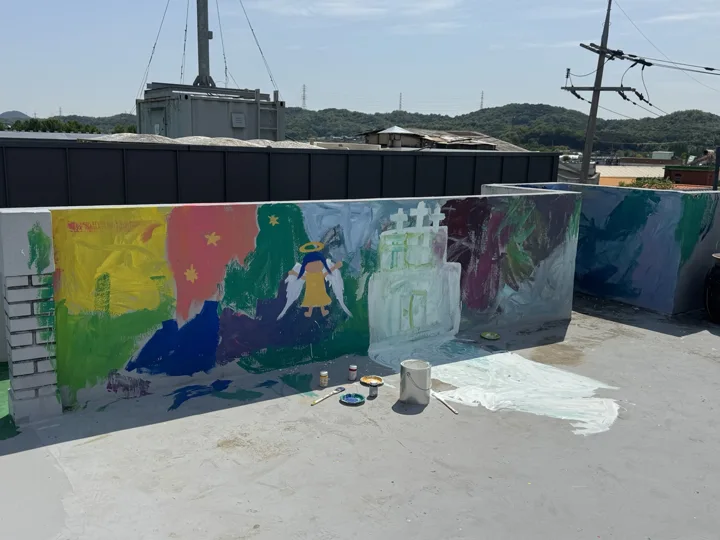
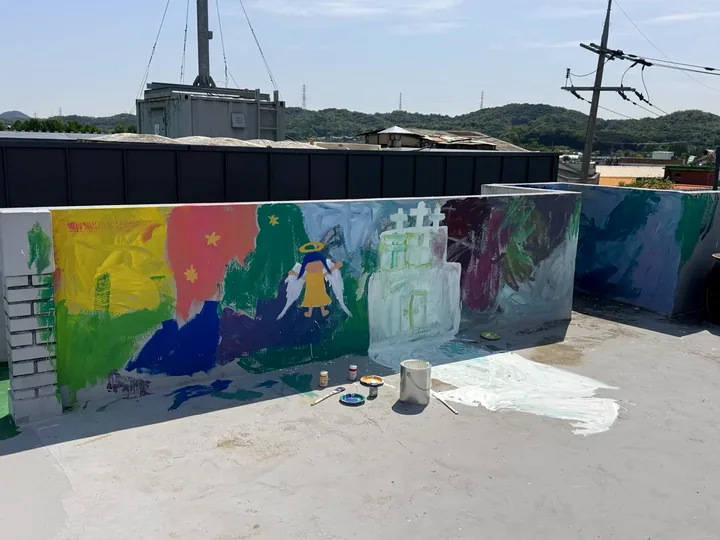
feat: 어린이 예배 페이지 문구를 담백하게 다듬고 이미지 색감 보정
- 은유·수식이 많던 제목·소개·단락·사진 설명을 간결한 문장으로 수정 (기존에 있던 사실만 사용)
- 홈·예배 안내의 어린이 예배 카드 요약과 meta/og 설명을 같은 문장으로 맞춤
- 그림 1장·사진 4장의 푸른 기를 줄이고 대비·채도를 소폭 조정 (파일명·크기·마크업 동일)
- 위키(ministries, site)에 변경 기록 추가

Claude-Session: https://claude.ai/code/session_01VZbFsqcJ5fzYUPDYFFQhgg

Changed region(s): [[0.8556, 0.3259, 0.8861, 0.3556]]

diff --git a/data.js b/data.js
@@ -114,58 +114,58 @@ const CHURCH_DATA = {
     childrenWorship: {
         "eyebrow": "광명교회 어린이 예배",
         "title": [
-            "어린이의 목소리로",
-            "교회가 자랍니다."
+            "아이들과 함께 드리는",
+            "주일 예배입니다."
         ],
-        "intro": "광명교회 어린이 예배는 아이들의 질문과 저마다의 목소리를 환영합니다. 함께 놀고 고민하고 기도하며 하느님의 사랑을 배웁니다.",
+        "intro": "광명교회 어린이 예배는 아이들이 궁금한 것을 편하게 묻는 자리입니다. 선생님들과 함께 찬양하고, 놀고, 기도하며 하느님의 사랑을 배웁니다.",
         "heroAlt": "팔을 벌린 예수님 곁에 모인 어린이들을 그린 그림",
-        "welcomeLabel": "함께 예배해요",
+        "welcomeLabel": "예배 안내",
         "visitLabel": "오시는 길",
-        "rhythmTitle": "아이들의 눈높이에서, 함께",
+        "rhythmTitle": "예배에서 하는 일",
         "rhythm": [
             {
-                "title": "말씀을 만나요",
-                "desc": "주일학교 선생님들과 그 주일의 성서 말씀을 만나고, 찬양과 활동으로 이야기를 나눕니다."
+                "title": "말씀 듣기",
+                "desc": "주일학교 선생님들과 그 주일의 성서 말씀을 읽고, 찬양과 활동으로 이야기를 나눕니다."
             },
             {
-                "title": "저마다의 목소리로",
-                "desc": "궁금한 것을 묻고 서로의 이야기를 듣습니다. 함께 놀고 고민하는 시간도 배움이 됩니다."
+                "title": "묻고 이야기하기",
+                "desc": "궁금한 것은 자유롭게 묻고, 서로의 이야기를 듣습니다. 함께 놀고 이야기 나누는 시간도 있습니다."
             },
             {
-                "title": "한 공동체로",
-                "desc": "영성체 시간에는 어른들과 함께합니다. 어린이도 교회의 예배를 함께 이루는 한 사람입니다."
+                "title": "영성체",
+                "desc": "영성체 시간에는 어른들과 함께 성체를 모십니다. 세례받은 어린이는 모두 성체를 받을 수 있습니다."
             }
         ],
-        "storyEyebrow": "우리의 시간",
-        "storyTitle": "작은 손들이 그린, 우리의 교회",
-        "storyIntro": "붓을 들고 색을 고르며 벽에 그림을 남겼습니다. 서로 다른 색이 만나 하나의 그림이 되듯, 아이들의 목소리가 모여 교회의 이야기가 됩니다.",
+        "storyEyebrow": "활동 모습",
+        "storyTitle": "아이들이 벽에 그린 그림",
+        "storyIntro": "아이들이 직접 색을 골라 붓으로 벽에 그림을 그렸습니다.",
         "photos": [
             {
                 "src": "painting-joy",
                 "alt": "붓을 들고 벽화 앞에서 두 팔을 펼친 어린이",
-                "caption": "마음껏 표현하는 기쁨"
+                "caption": "붓을 들고 웃는 아이"
             },
             {
                 "src": "painting-together",
                 "alt": "여러 색으로 칠한 벽에 붓질하는 어린이",
-                "caption": "내가 고른 색으로, 나의 자리에서"
+                "caption": "벽에 색을 칠하는 아이"
             },
             {
                 "src": "mural-church",
                 "alt": "푸른 하늘과 초록 들판 위에 그린 작은 교회 벽화",
-                "caption": "아이들의 눈에 비친 교회"
+                "caption": "하늘과 들판 위의 교회 그림"
             },
             {
                 "src": "mural-angel",
                 "alt": "여러 색의 바탕 위에 천사와 교회를 그린 벽화",
-                "caption": "함께 남긴 우리의 이야기"
+                "caption": "천사와 교회를 그린 벽화"
             }
         ],
-        "joinTitle": "이번 주일, 함께 만나요",
+        "joinTitle": "예배 안내",
         "placeLabel": "장소",
         "place": "교육관",
         "timeLabel": "시간",
-        "joinIntro": "처음 오시는 가족도 환영합니다. 어린이 예배가 궁금하시다면 교회로 문의해 주세요.",
+        "joinIntro": "처음 오시는 가족도 환영합니다. 궁금한 점은 교회로 문의해 주세요.",
         "communionTitle": "영성체 안내",
         "contactLabel": "어린이 예배 문의",
         "backLabel": "전체 예배 안내"
@@ -526,7 +526,7 @@ const CHURCH_DATA = {
                 href: "children.html",
                 image: "images/children/welcome-sm.webp",
                 imageAlt: "어린이들을 맞이하는 예수님 그림",
-                summary: "아이들의 질문과 저마다의 목소리를 환영합니다. 함께 놀고 고민하고 기도하며 하느님의 사랑을 배웁니다.",
+                summary: "아이들이 궁금한 것을 편하게 묻고, 놀고, 기도하며 하느님의 사랑을 배웁니다.",
                 linkLabel: "어린이 예배 만나보기",
                 title: "어린이 예배",
                 time: "매주 일요일 오전 11:00",

diff --git a/children.html b/children.html
@@ -4,21 +4,21 @@
     <meta charset="UTF-8">
     <meta name="viewport" content="width=device-width, initial-scale=1.0, viewport-fit=cover">
     <title>어린이 예배 — 대한성공회 광명교회</title>
-    <meta name="description" content="어린이의 목소리로 교회가 자랍니다. 아이들의 질문과 저마다의 목소리를 환영하는 광명교회 어린이 예배.">
+    <meta name="description" content="아이들이 궁금한 것을 편하게 묻고, 찬양하고 놀며 기도하는 광명교회 어린이 예배 안내입니다.">
     <meta name="theme-color" content="#173a2e">
     <link rel="canonical" href="https://frpsy.github.io/gmchurch_web/children.html">
     <meta property="og:type" content="website">
     <meta property="og:site_name" content="대한성공회 광명교회">
     <meta property="og:locale" content="ko_KR">
     <meta property="og:title" content="어린이 예배 — 대한성공회 광명교회">
-    <meta property="og:description" content="어린이의 목소리로 교회가 자랍니다. 아이들의 질문과 저마다의 목소리를 환영하는 광명교회 어린이 예배.">
+    <meta property="og:description" content="아이들이 궁금한 것을 편하게 묻고, 찬양하고 놀며 기도하는 광명교회 어린이 예배 안내입니다.">
     <meta property="og:url" content="https://frpsy.github.io/gmchurch_web/children.html">
     <meta property="og:image" content="https://frpsy.github.io/gmchurch_web/images/brand/og-image-v3.png">
     <meta property="og:image:width" content="1200">
     <meta property="og:image:height" content="630">
     <meta name="twitter:card" content="summary_large_image">
     <meta name="twitter:title" content="어린이 예배 — 대한성공회 광명교회">
-    <meta name="twitter:description" content="어린이의 목소리로 교회가 자랍니다. 아이들의 질문과 저마다의 목소리를 환영하는 광명교회 어린이 예배.">
+    <meta name="twitter:description" content="아이들이 궁금한 것을 편하게 묻고, 찬양하고 놀며 기도하는 광명교회 어린이 예배 안내입니다.">
     <meta name="twitter:image" content="https://frpsy.github.io/gmchurch_web/images/brand/og-image-v3.png">
     <link rel="icon" type="image/svg+xml" href="favicon.svg">
     <link rel="apple-touch-icon" href="apple-touch-icon.png">

diff --git a/docs/wiki/site.md b/docs/wiki/site.md
@@ -50,5 +50,6 @@
 - `children.html` → `ChildrenRenderer` → `CHURCH_DATA.childrenWorship`. 예배와 기도 하위 메뉴와 기존 어린이 예배 카드에서 연결.
 - 사용자가 제공한 소개문, 활동 사진 4장, 예수님과 어린이 그림을 사용. 사진 날짜·참여 연령 등 미확인 사실은 추가하지 않음.
 - 시간과 영성체 안내는 `worship.main`의 어린이 예배 항목에서 파생. 장소는 교육관. 이미지 `images/children/`, 반응형 스타일 `.children-*`.
+- 2026-10-18 문구를 담백한 표현으로 다듬고(은유·수식 제거, 사실은 기존 내용 그대로), 그림·사진 5종의 색감을 보정함(푸른 기 완화, 대비·채도 소폭 조정, 파일명·크기 동일).
 
 - 홈페이지 어린이 예배 카드에도 글씨를 제거한 최종 그림과 소개 페이지 링크를 연결. 사이트 검색의 어린이 예배 결과도 상세 페이지로 이동.

diff --git a/docs/wiki/ministries.md b/docs/wiki/ministries.md
@@ -30,3 +30,4 @@
 - `children.html` → `ChildrenRenderer` → `CHURCH_DATA.childrenWorship`. 예배와 기도 하위 메뉴와 기존 어린이 예배 카드에서 연결.
 - 사용자가 제공한 소개문, 활동 사진 4장, 예수님과 어린이 그림을 사용. 사진 날짜·참여 연령 등 미확인 사실은 추가하지 않음.
 - 시간과 영성체 안내는 `worship.main`의 어린이 예배 항목에서 파생. 장소는 교육관. 이미지 `images/children/`, 반응형 스타일 `.children-*`.
+- 2026-10-18 문구를 담백한 표현으로 다듬고(은유·수식 제거, 사실은 기존 내용 그대로), 그림·사진 5종의 색감을 보정함(푸른 기 완화, 대비·채도 소폭 조정, 파일명·크기 동일).
